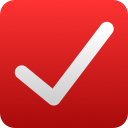
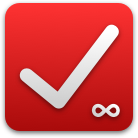
feat (rt): add readme

Changed region(s): [[0.0, 0.0, 1.0, 1.0], [0.0938, 0.1562, 0.9062, 0.8438], [0.6562, 0.75, 0.875, 0.875]]

diff --git a/README.md b/README.md
@@ -1,0 +1,10 @@
+<p align="center">
+    <img width="64" src="https://github.com/gastbob40/infinity-rt/raw/master/extension-chrome/icon_128.png" alt="Infinity Pegasus logo">
+</p>
+<br/>
+<p align="center">
+<a href="https://github.com/gastbob40/infinity-rt/blob/master/LICENSE"><img src="https://img.shields.io/github/license/gastbob40/infinity-rt?style=flat-square"/></a>
+</p>
+
+# Infinity RT ✔
+> Make RT great again!
